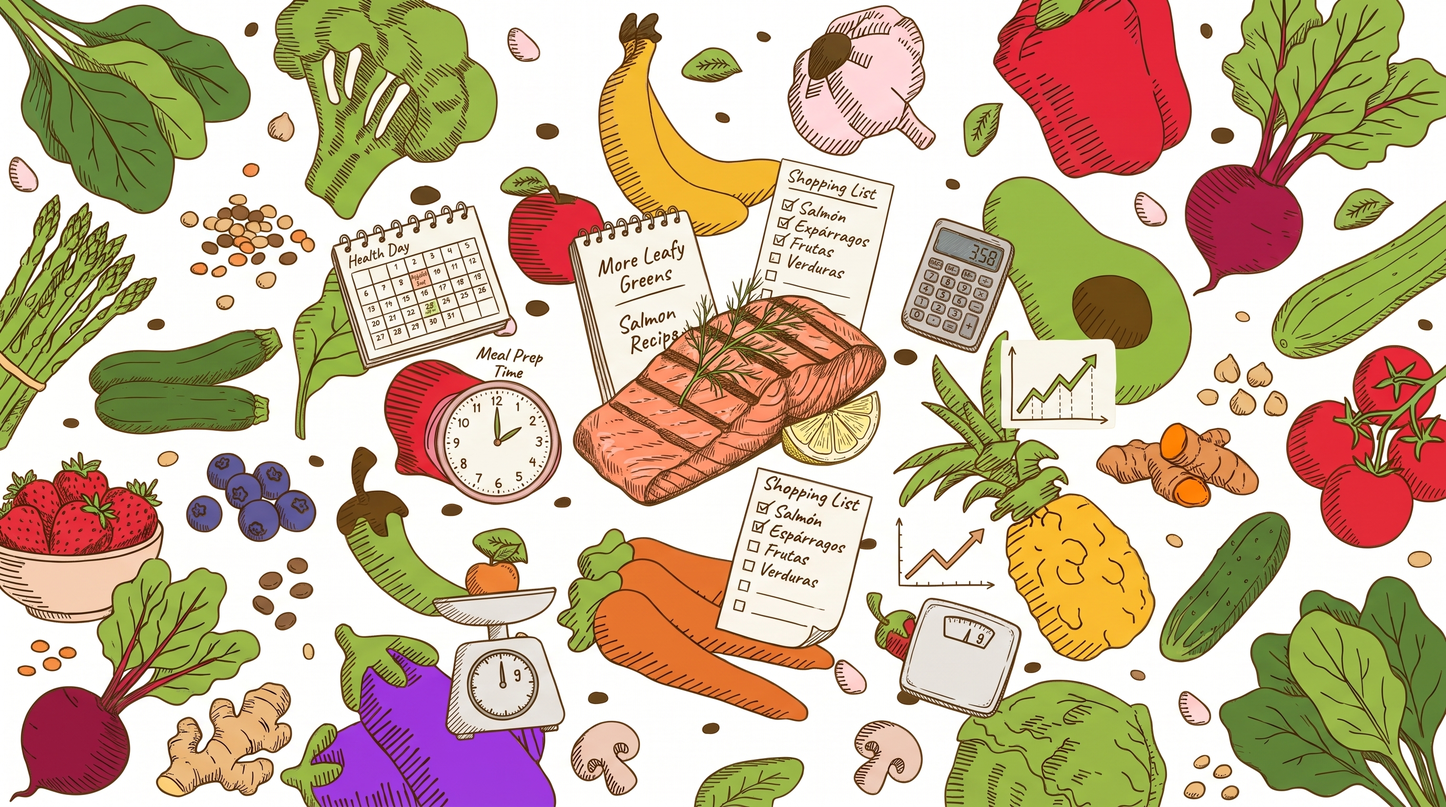
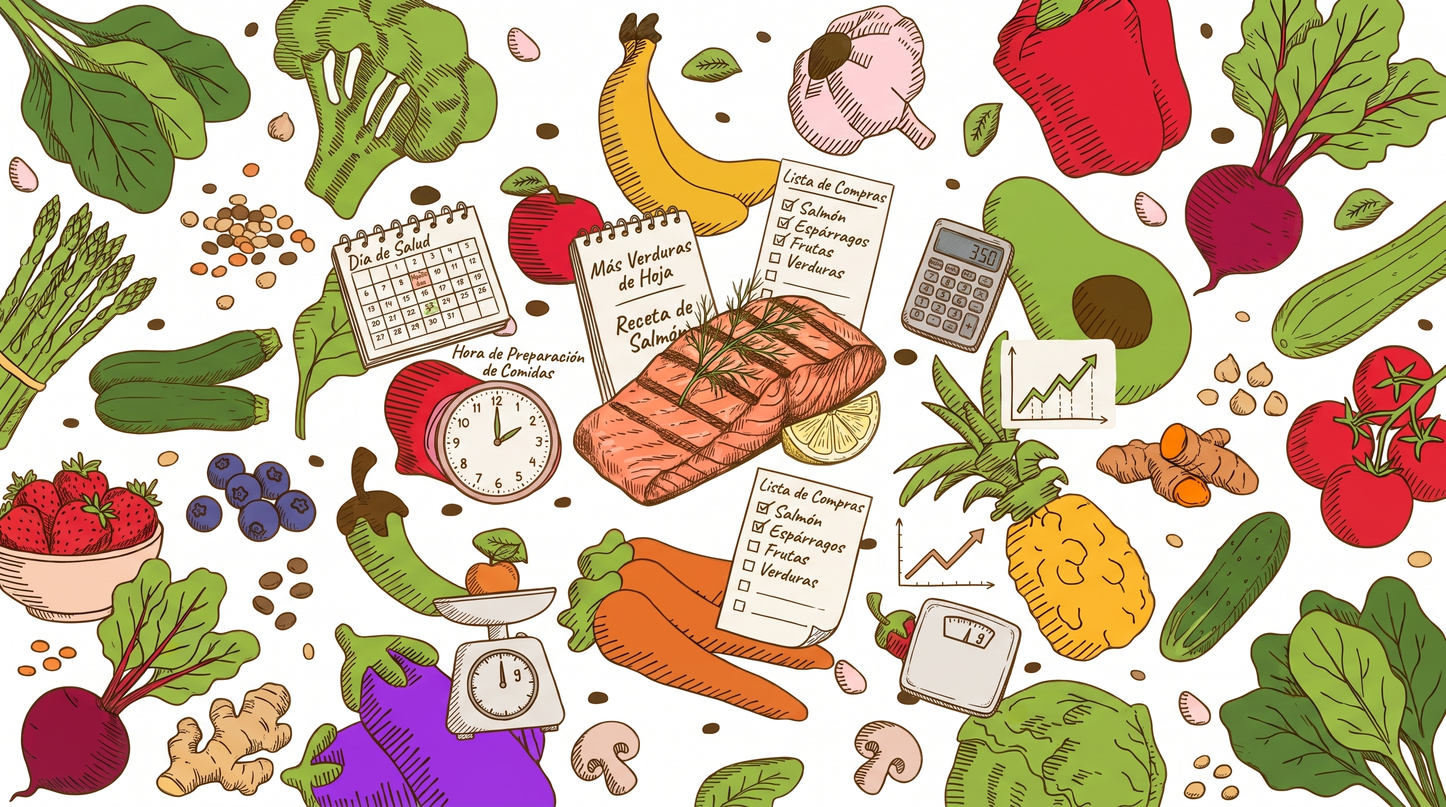
feat: implement main application layout with navigation, auth, and menu editor modal component

diff --git a/src/App.tsx b/src/App.tsx
@@ -46,7 +46,7 @@ export default function App() {
     return (
       <div className="min-h-screen bg-background flex items-center justify-center p-6 relative">
       <div 
-        className="fixed inset-0 z-[0] bg-fixed pointer-events-none transition-all duration-1000 ease-out"
+        className="fixed inset-0 z-[0] pointer-events-none transition-all duration-1000 ease-out"
         style={{ backgroundImage: "url('/fondo.jpg')", backgroundSize: 'cover', backgroundPosition: '50% center' }}
       />
       <div className="relative z-10 w-full flex justify-center">
@@ -72,7 +72,7 @@ export default function App() {
     <AppDataProvider>
     <div className="flex flex-col min-h-screen bg-background md:pl-[300px] overflow-x-hidden relative">
       <div 
-        className="fixed inset-0 z-[0] bg-fixed pointer-events-none transition-all duration-1000 ease-out"
+        className="fixed inset-0 z-[0] pointer-events-none transition-all duration-1000 ease-out"
         style={{ 
           backgroundImage: "url('/fondo.jpg')", 
           backgroundSize: 'cover', 

diff --git a/src/components/MenuEditorModal.tsx b/src/components/MenuEditorModal.tsx
@@ -217,7 +217,8 @@ export default function MenuEditorModal({ menu, onClose, onSave, onDelete }: Men
                             <div className="flex flex-wrap gap-2 mb-2 p-3 bg-surface border-2 border-text-main rounded-xl">
                                {selectedIngredients.map(ing => (
                                   <div key={ing.name} className="flex items-center gap-1 bg-[#fde047] text-text-main px-3 py-1.5 rounded-full text-[10px] font-black uppercase tracking-widest border-2 border-text-main shadow-[2px_2px_0_0_var(--color-text-main)]">
-                                     {ing.name}
+                                     <span className="font-bold opacity-80">{ing.qty}</span>
+                                     <span>{ing.name}</span>
                                      <button onClick={() => handleRemoveIngredient(ing.name)} className="hover:text-red-600 transition-colors ml-1"><X size={14} /></button>
                                   </div>
                                ))}

diff --git a/dev-dist/sw.js b/dev-dist/sw.js
@@ -78,7 +78,7 @@ define(['./workbox-7e5eb42b'], (function (workbox) { 'use strict';
    */
   workbox.precacheAndRoute([{
     "url": "index.html",
-    "revision": "0.ccfr0vjjkvo"
+    "revision": "0.bv10mdongjg"
   }], {});
   workbox.cleanupOutdatedCaches();
   workbox.registerRoute(new workbox.NavigationRoute(workbox.createHandlerBoundToURL("index.html"), {
